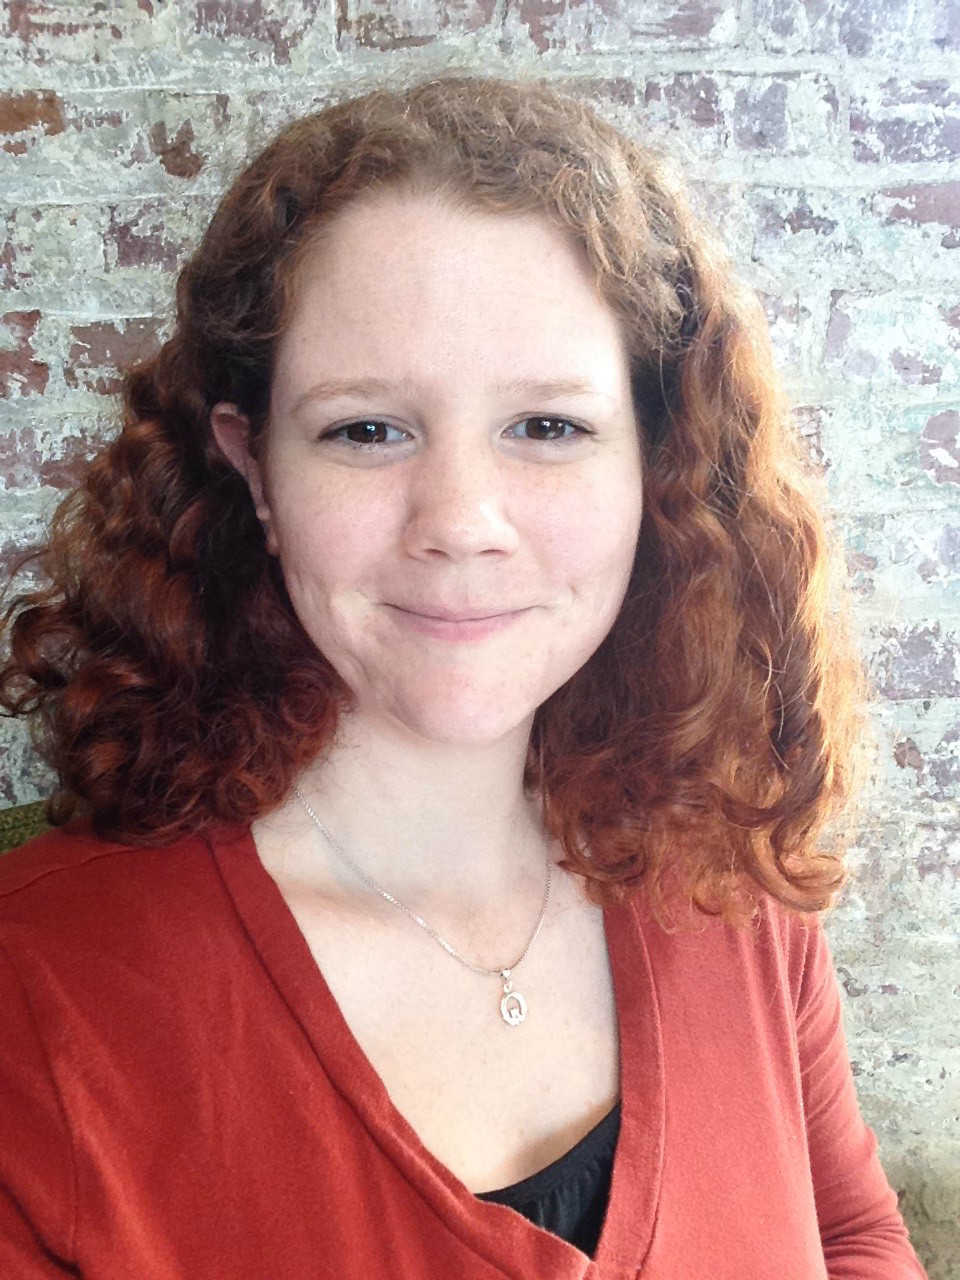
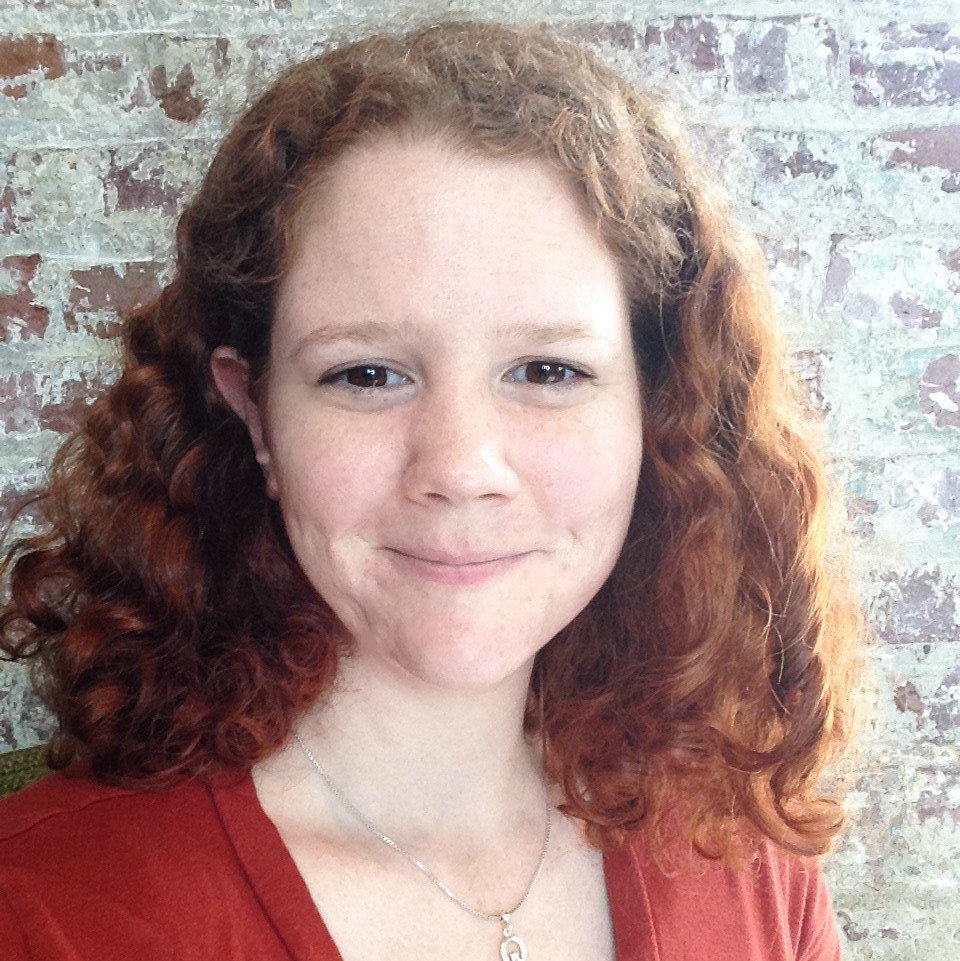
Resizes pictures

diff --git a/volunteers.html b/volunteers.html
@@ -140,7 +140,7 @@
       <div class="row">
         <div class="col-sm-6 col-lg-3">
           <div class="text-center">
-            <img class="img-rounded bio-pic" src="img/volunteers/ErisHeadshot.png">
+            <img class="img-rounded bio-pic" src="img/volunteers/ErisHeadshot.jpg">
             <h3>Eris Koleszar</h3>
           </div>
           <div class="bio-container">
